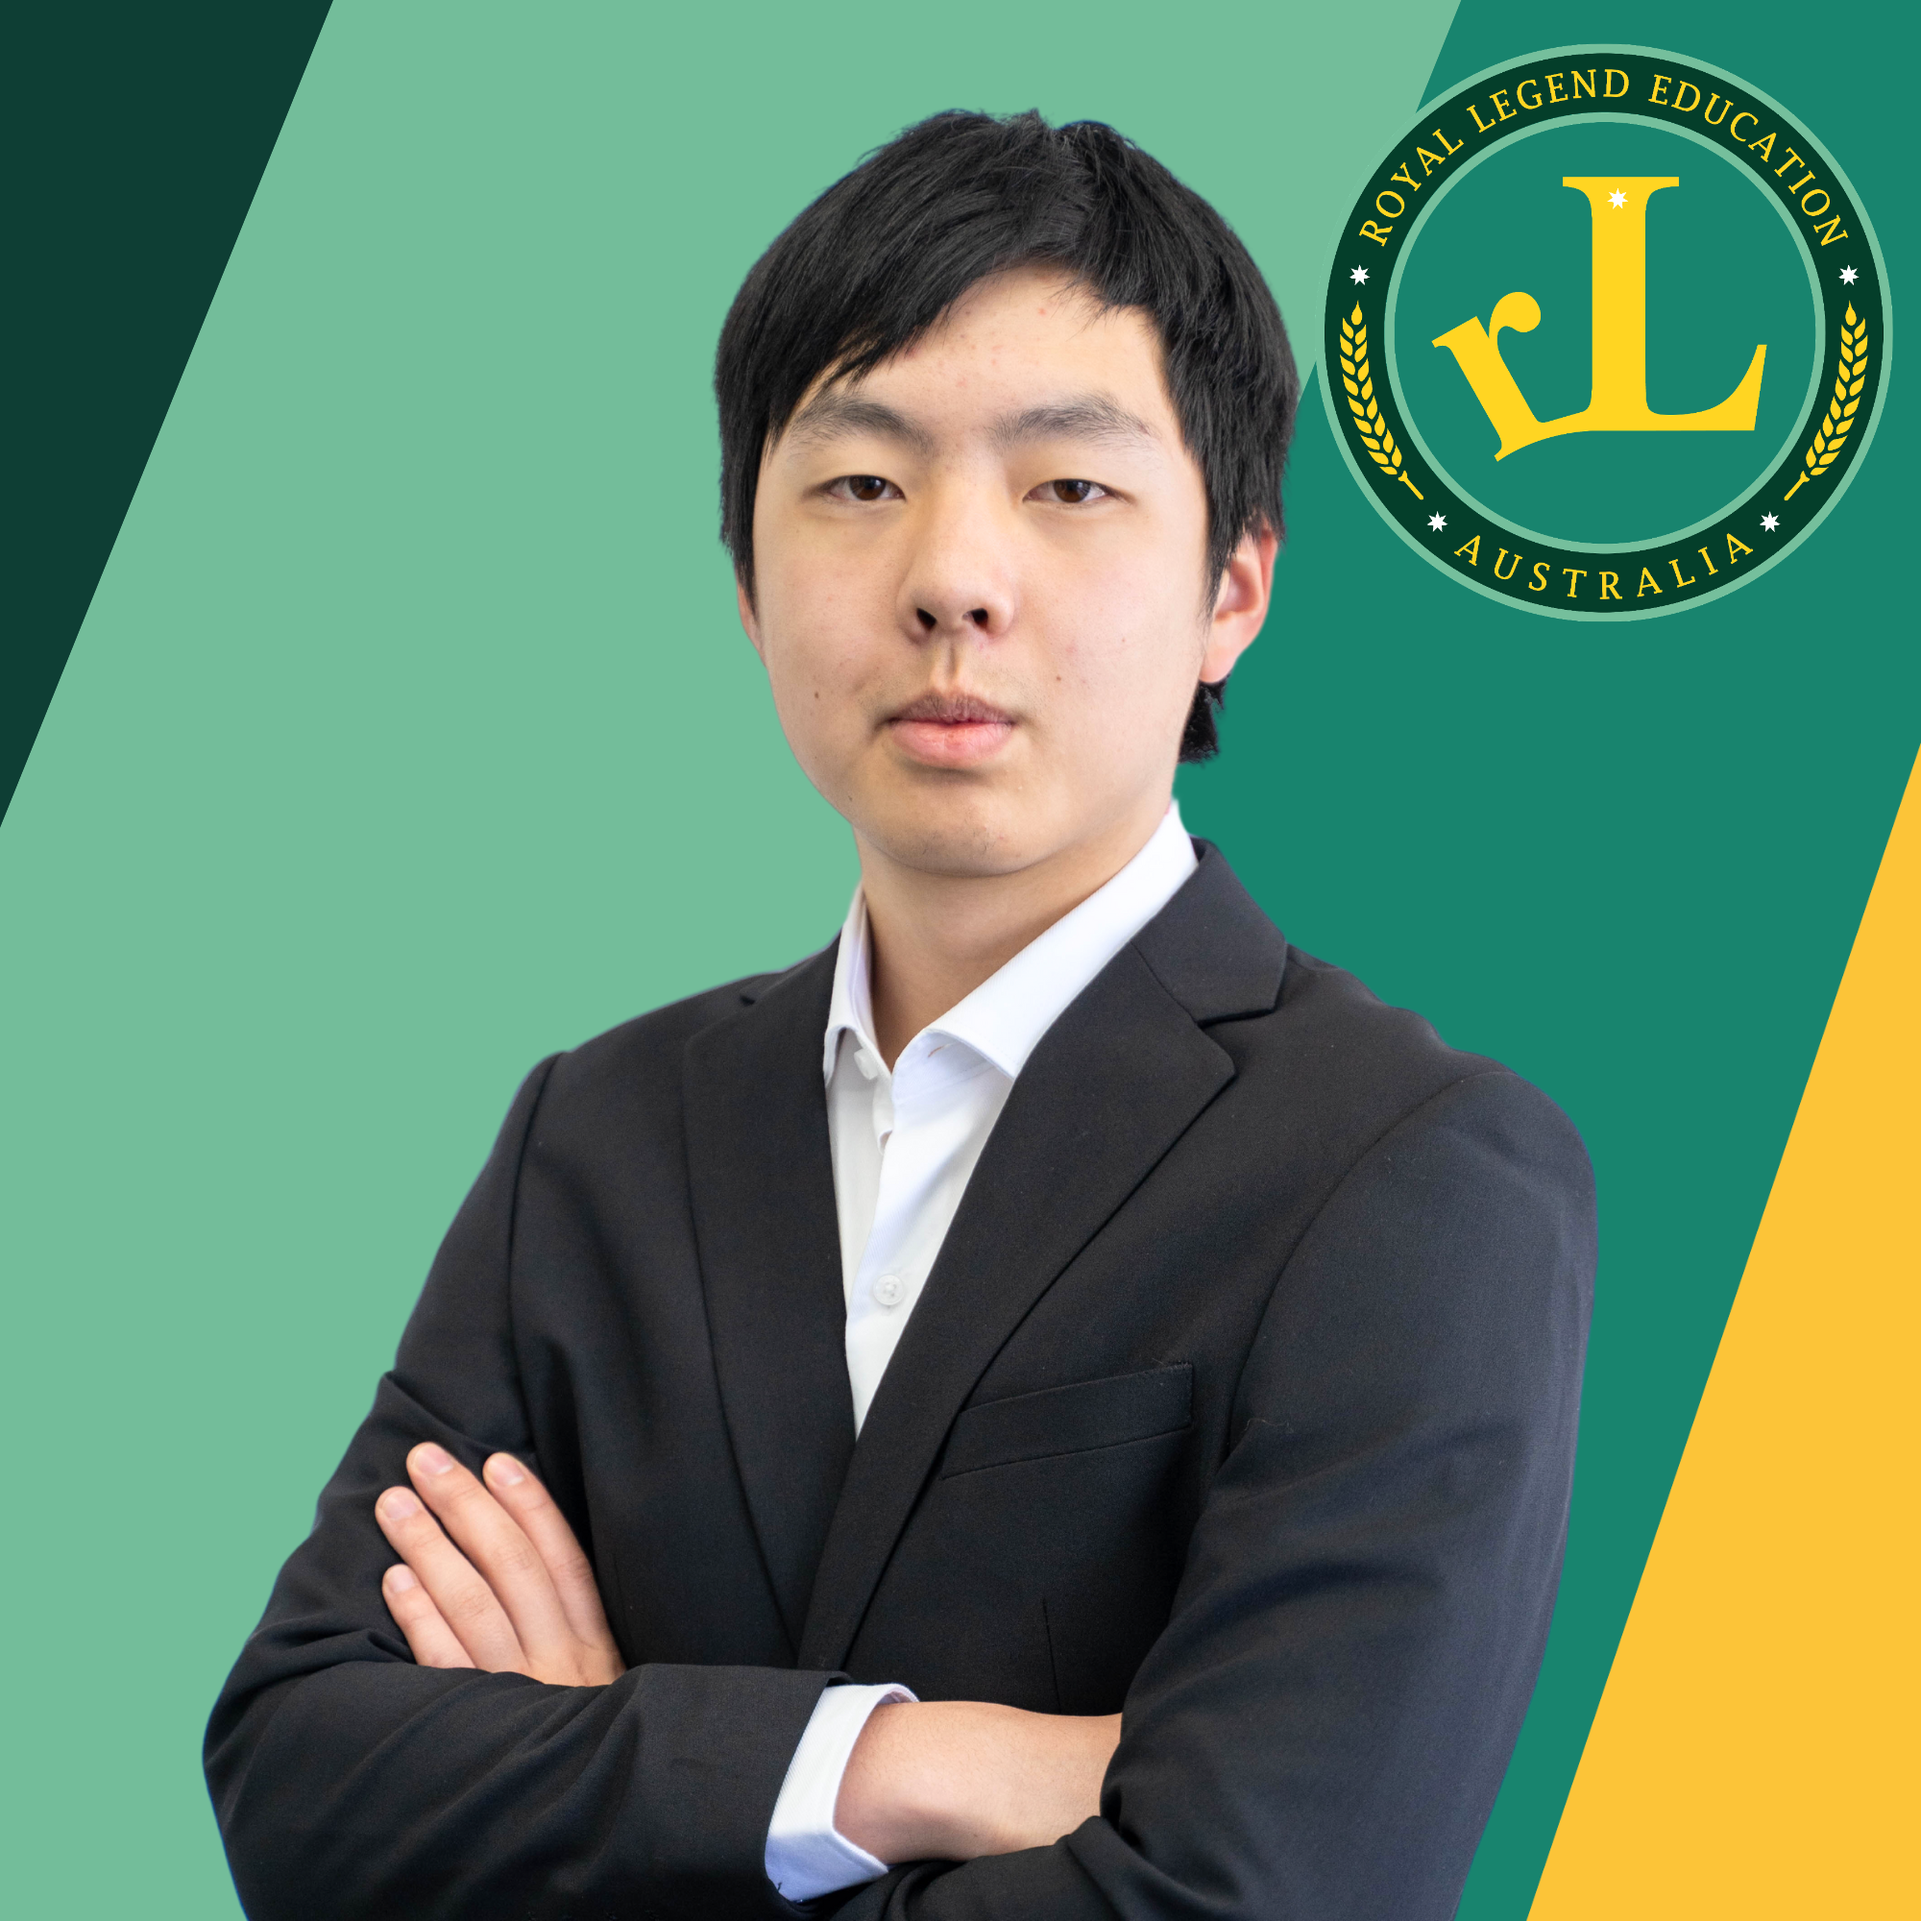
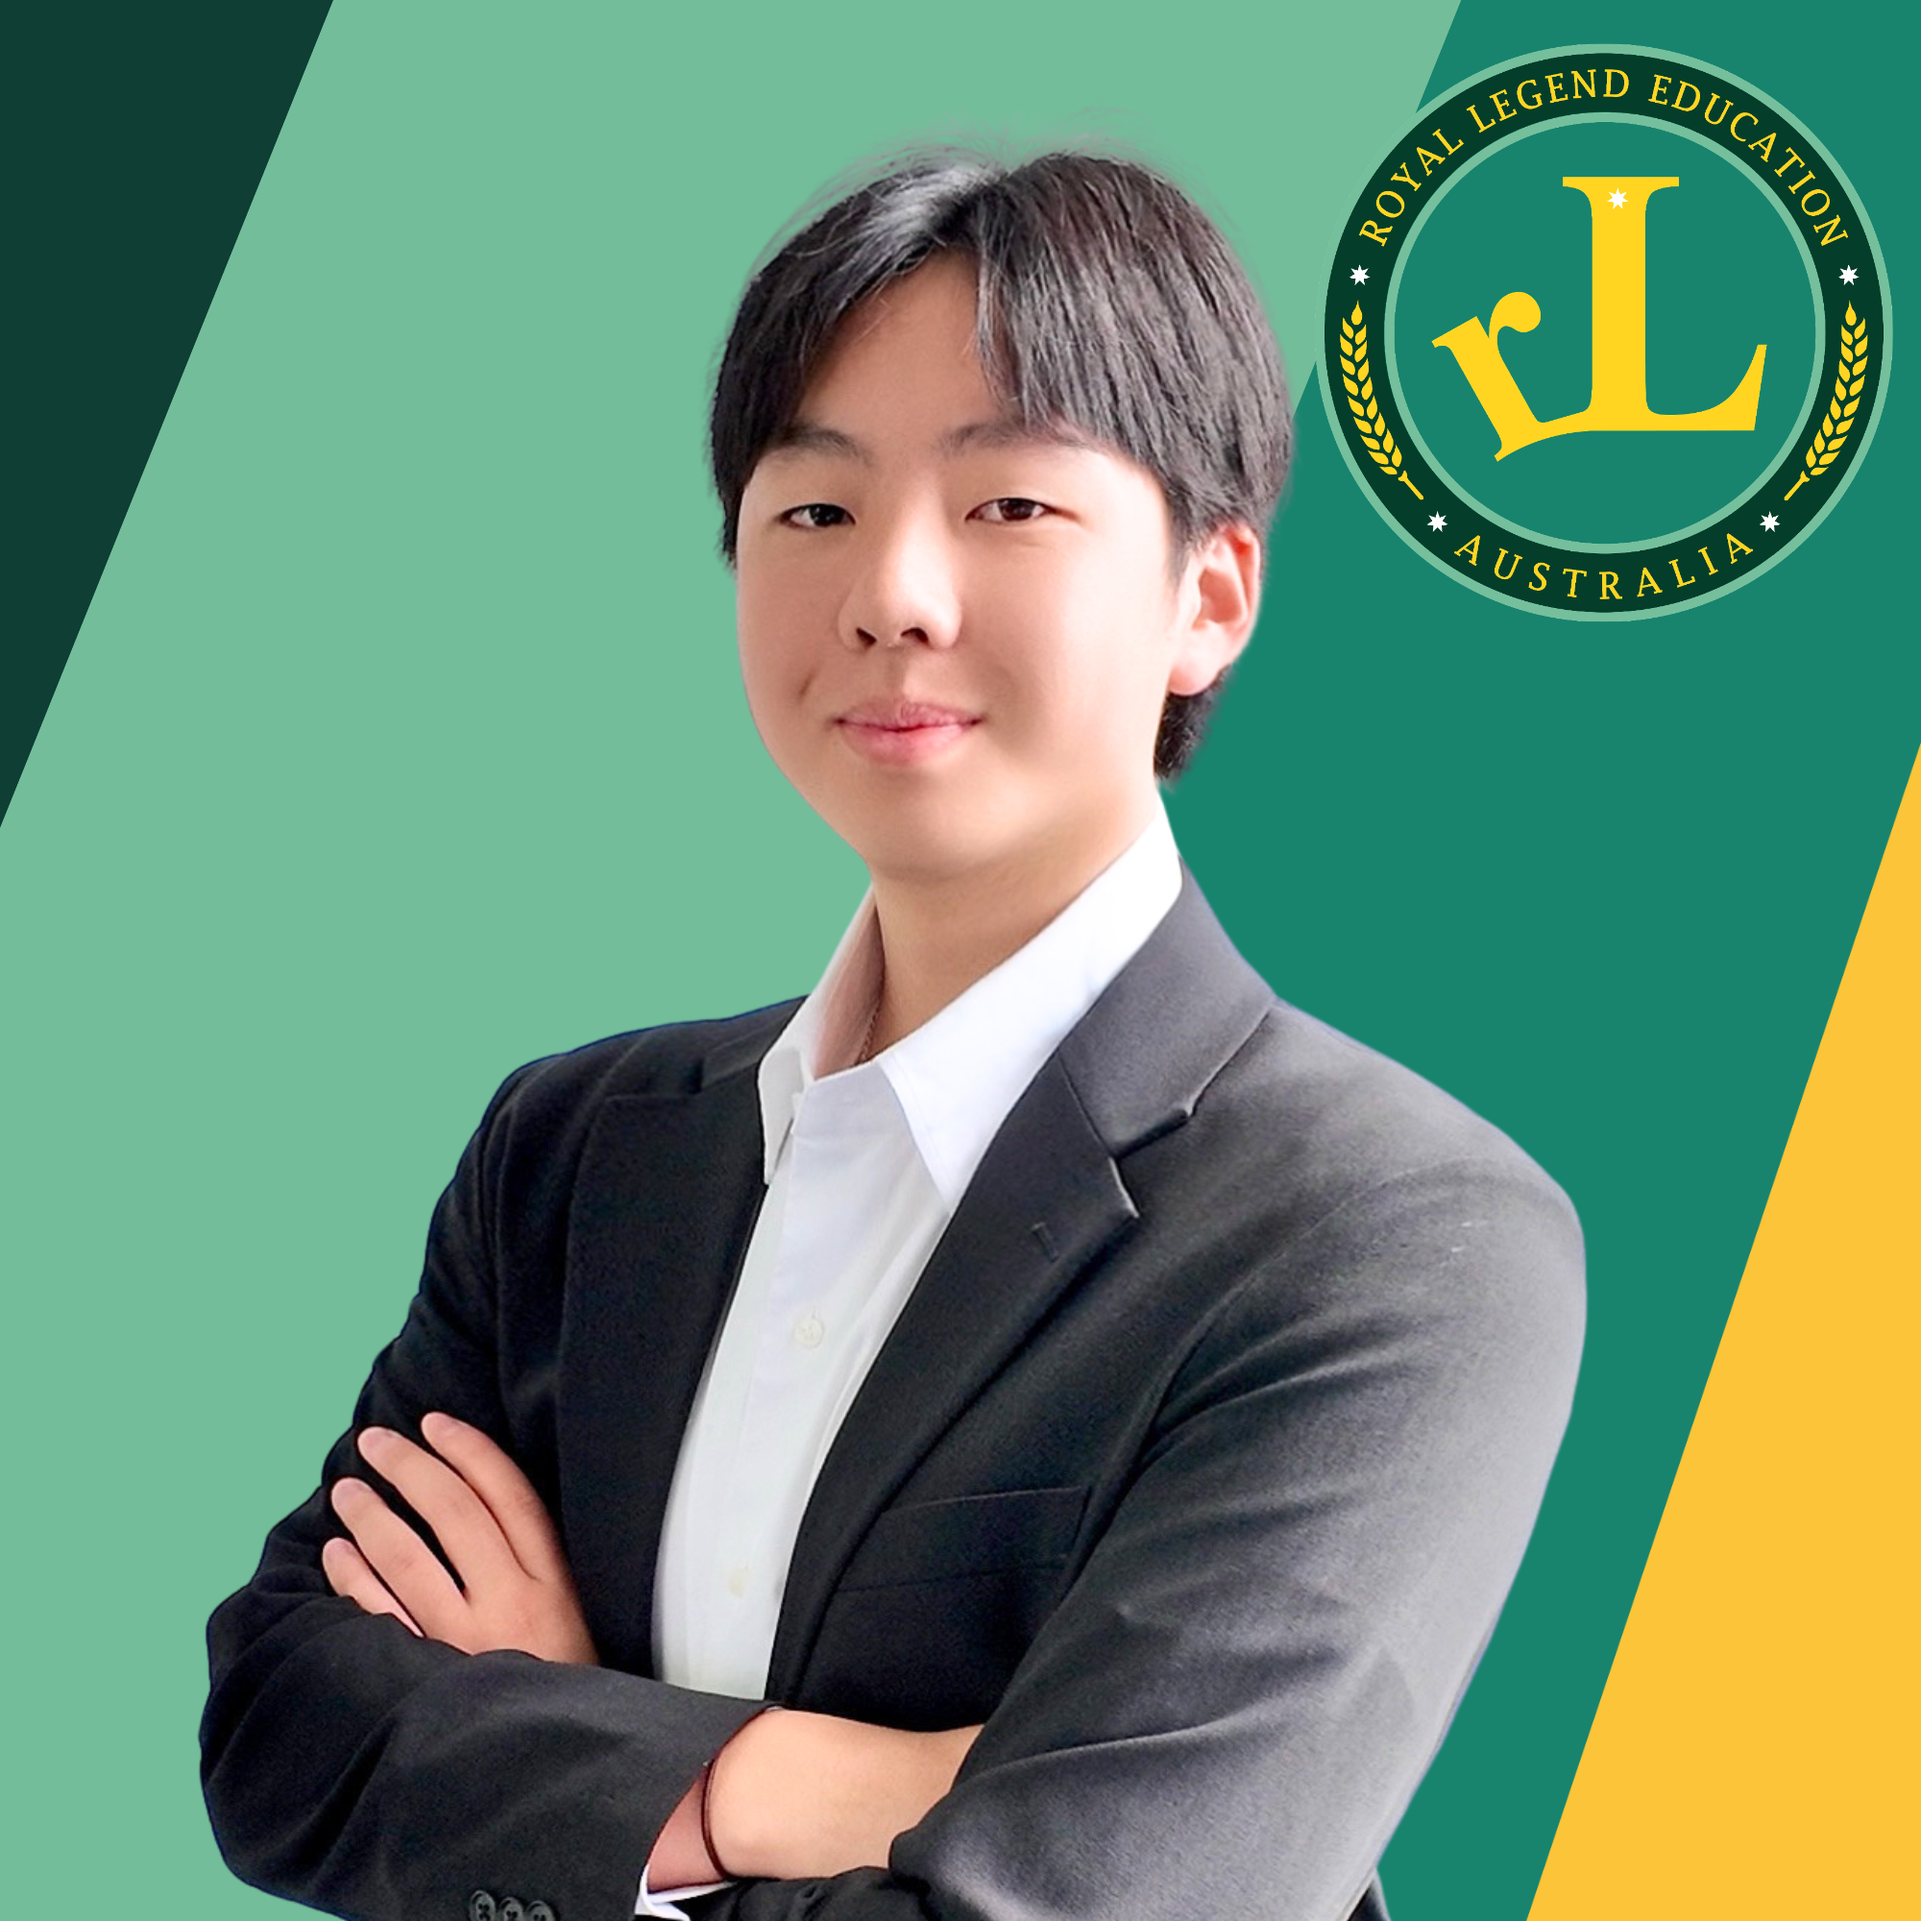
changed image of people in meet our team

Changed region(s): [[0.093, 0.031, 0.837, 1.0]]

diff --git a/RL-BM/src/pages/Team.jsx b/RL-BM/src/pages/Team.jsx
@@ -1,5 +1,5 @@
 import React from 'react';
-import alanImg from '../assets/alan.jpg';
+import alanImg from '../assets/alan.png';
 import michaelImg from '../assets/michael.png';
 import yeehengImg from '../assets/Yeeheng.png';
 import kelvinImg from '../assets/kelvinv2.png';
